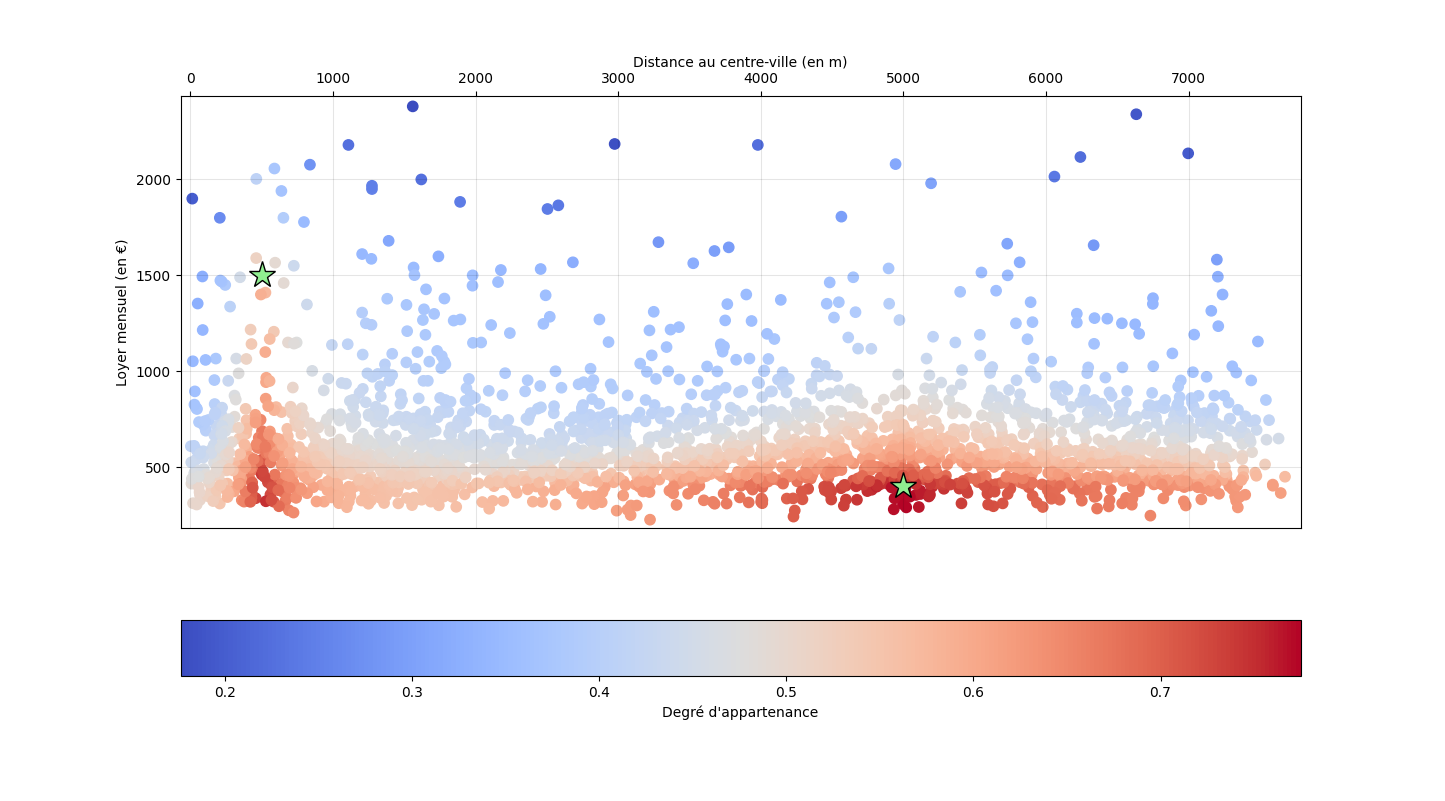
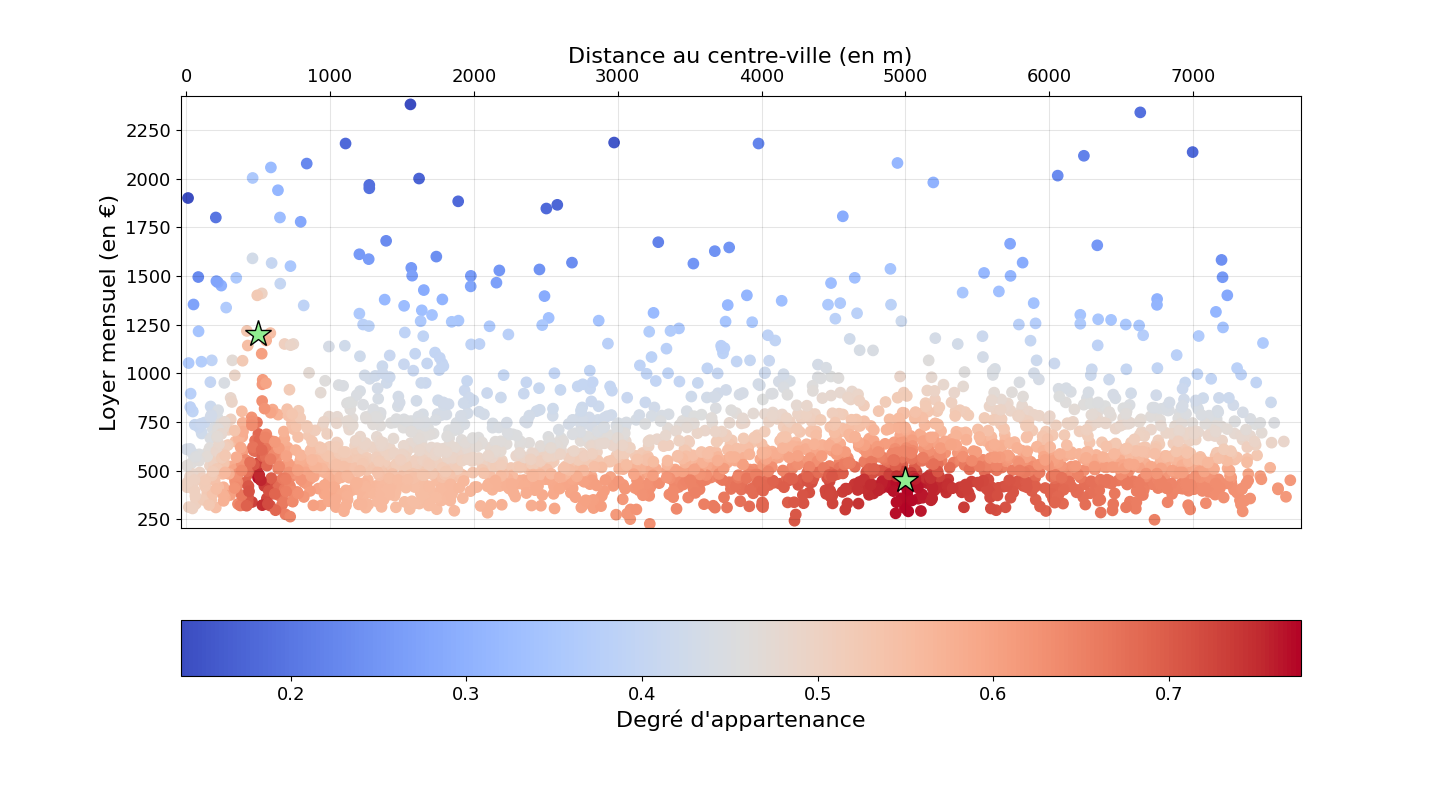
pics

diff --git a/web_app/fuzzy_queries/static/fuzzy_queries/src/clustering.py b/web_app/fuzzy_queries/static/fuzzy_queries/src/clustering.py
@@ -5,8 +5,8 @@ try :
 except :
     from utils import *
 from operator import add, ne, eq
-from pandas import read_csv
-import matplotlib.pyplot as plt
+# from pandas import read_csv
+# import matplotlib.pyplot as plt
 try :
     import fuzzy_queries.static.fuzzy_queries.src.dataset as ds
 except :
@@ -158,26 +158,28 @@ class Clustering():
 
 
 # C = Clustering(Data, FUNCTIONS, [8, 4])
-# C.by_affinity(0.47, 40)
+# C.by_affinity(0.47)
 # print(C.n_clusters)
 
 # labels=["Type de logement", "Surface (en m²)", "Nombre de pièces", "Nombre de chambres", "Loyer mensuel (en €)", "Meublé", "Jardin", "Terrasse", "Distance au centre-ville (en m)", "Distance aux transports (en m)", "Distance aux commerces (en m)"]
 # ctr = C.centers()
 # reduced_ctr = [[c[8], c[4]] for c in ctr]
-# reduced_ctr=[[200, 20], [500, 20], [600, 30], [300, 25], [7000, 60]]
-# D = ds.Fuzzy_Dataset(reduced_ctr, [relative_sim, relative_sim])
+# reduced_ctr=[[500, 1200], [5000, 450]]
+# D = ds.Fuzzy_Dataset(reduced_ctr, [relative_sim, inf_or_relative])
 # D = ds.Fuzzy_Dataset(ctr, [eq, relative_sim, discrete_sim, discrete_sim, inf_or_relative, eq, eq, eq, relative_sim, relative_sim, relative_sim], [0, 0.75, 0.5, 0.5, 0.75, 0, 0, 0, 0.75, 0.75, 0.75])
 
 
 
 ## Print attributes value repartition, Choquet scores... etc
 
+# plt.rc('xtick', labelsize=13) 
+# plt.rc('ytick', labelsize=13)
 # x_axis, y_axis, z_axis = [], [], []
 # r_axis, g_axis, b_axis = [], [], []
 # for x in AllData :
 #     x_axis.append(x[8])
-#     y_axis.append(x[1])
-#     z_axis.append(D.choquet([x[8], x[1]]))
+#     y_axis.append(x[4])
+#     z_axis.append(D.choquet([x[8], x[4]]))
 #   r_axis.append(x[8])
 #   g_axis.append(x[9])
 #   b_axis.append(x[10])
@@ -196,9 +198,9 @@ class Clustering():
 # colorbar = plt.scatter(x_axis, y_axis, marker='o', s=55, c=z_axis, cmap=plt.cm.coolwarm)
 # for x in reduced_ctr :
 #     plt.plot(x[0], x[1], marker='*', markersize=20, c='lightgreen', markeredgecolor='black')
-# plt.colorbar(colorbar, orientation="horizontal").set_label("Degré d'appartenance")
-# plt.xlabel(labels[8])
-# plt.ylabel(labels[1])
+# plt.colorbar(colorbar, orientation="horizontal").set_label("Degré d'appartenance", fontsize=16)
+# plt.xlabel(labels[8], fontsize=16)
+# plt.ylabel(labels[4], fontsize=16)
 # ax.xaxis.tick_top()
 # ax.xaxis.set_label_position("top")
 # plt.grid(color='black', alpha=0.1)
@@ -208,23 +210,24 @@ class Clustering():
 
 ## Print clusters and associated points
 
+# plt.rc('xtick', labelsize=13) 
+# plt.rc('ytick', labelsize=13)
 # _, ax = plt.subplots()
 
 # colors = ['red', 'black', 'yellow', 'purple', 'pink', 'cyan', 'lightblue', 'lightgreen', 'darkgray', 'darkgreen', 'maroon', 'darkblue', 'darkorange', 'blue']
-# np.random.shuffle(colors)
 # for c in range(C.n_clusters):
 #     cluster = C.cluster(c)
 #     center = C.centers()[c]
 #     d = distances(cluster, [4, 8], center, FUNCTIONS)
 #     for k in range(len(cluster)):
 #         if d[k] > 0.6 :
-#             # plt.plot(cluster[k][8], cluster[k][4], 'o', markersize=6, c='darkgray', markeredgecolor='black')
+            # plt.plot(cluster[k][8], cluster[k][4], 'o', markersize=6, markeredgecolor="black", color="darkgray")
 #             plt.plot([center[8], cluster[k][8]], [center[4], cluster[k][4]], 'ro-', markersize=6, c=colors[c%13])
 #     plt.plot(center[8], center[4], marker='o', markersize=12, c=colors[c%13], markeredgecolor='black')
 
 # ax.xaxis.tick_top()
 # ax.xaxis.set_label_position("top")
-# plt.xlabel(labels[8])
-# plt.ylabel(labels[4])
+# plt.xlabel(labels[8], fontsize=16)
+# plt.ylabel(labels[4], fontsize=16)
 # plt.grid(color='black', alpha=0.1)
 # plt.show()
